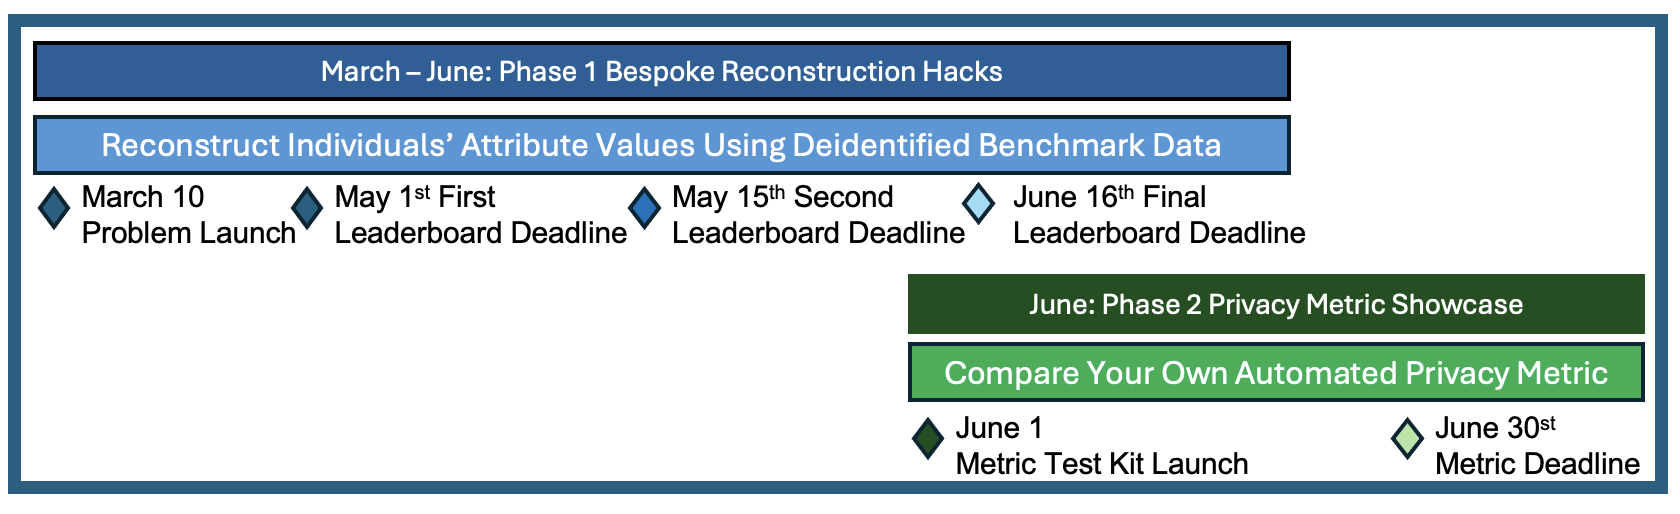
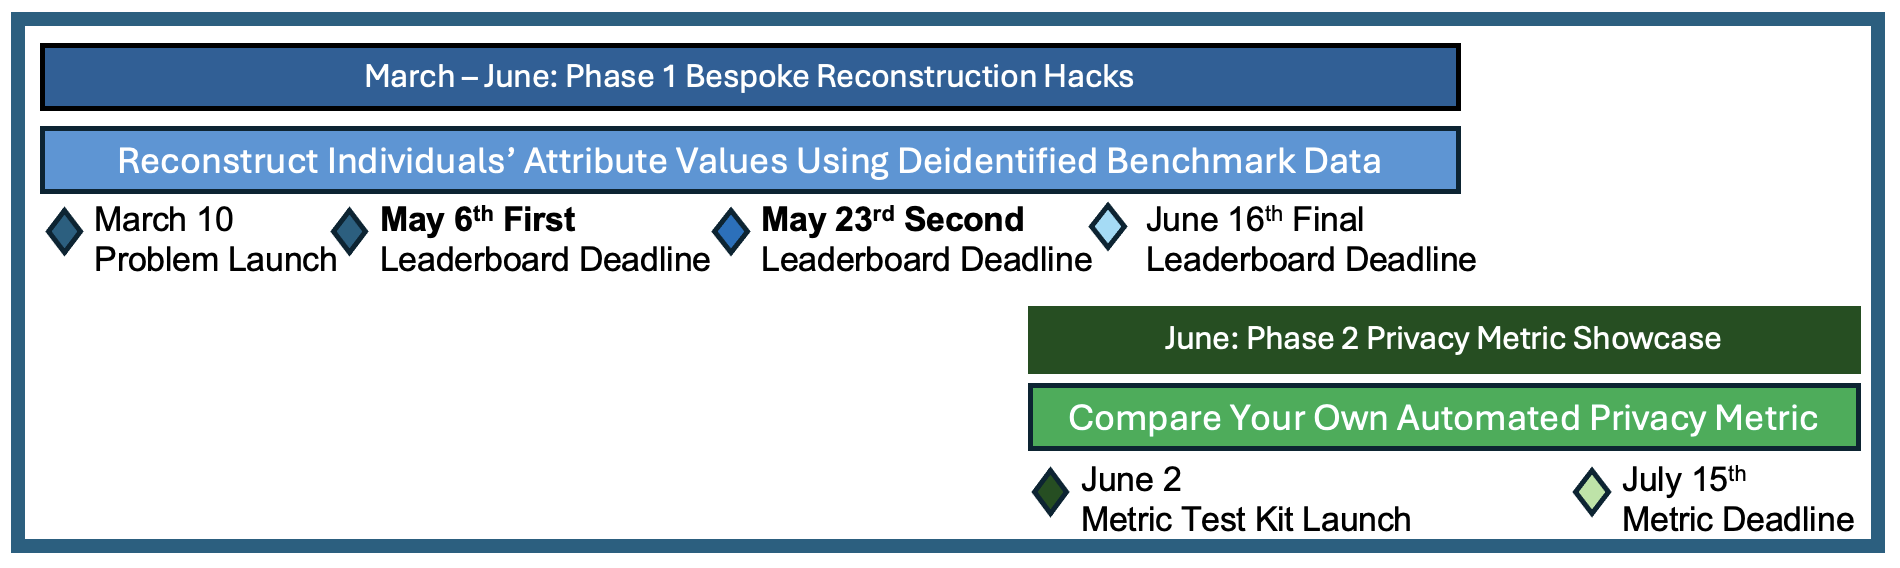
Add submission form link and update calendar

Changed region(s): [[0.0, 0.0, 1.0, 0.9961], [0.0, 0.3424, 0.7738, 0.4981]]

diff --git a/pages/red_team.html b/pages/red_team.html
@@ -312,7 +312,7 @@
 						Try as many reconstruction problems as you like (following the directions above).  Note that the more you try, the higher you'll score-- even if it's random guesses. 
 						</li>
 						<li>
-					  Go to this form to submit your reconstruction attack files to the leaderboard.  The form will ask you about the methods you used, and ask if you'd like to link any libraries or references. 
+					  <a href="https://docs.google.com/forms/d/e/1FAIpQLSdSfNTv5IMZbxCyDl8-Nd5MuBZg_HAnv_wwqA48WI-eE70gaw/viewform?usp=dialog"> Go to this form to submit your reconstruction attack files to the leaderboard. </a>  The form will ask you about the methods you used, and ask if you'd like to link any libraries or references. 
 					  </li>
 					  <li>
 					  You can submit one attempt for every leaderboard update, up to three times total (see the Calendar for deadlines in April, May and June).
